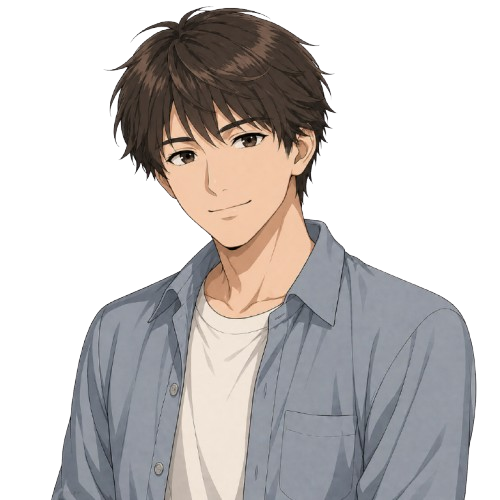
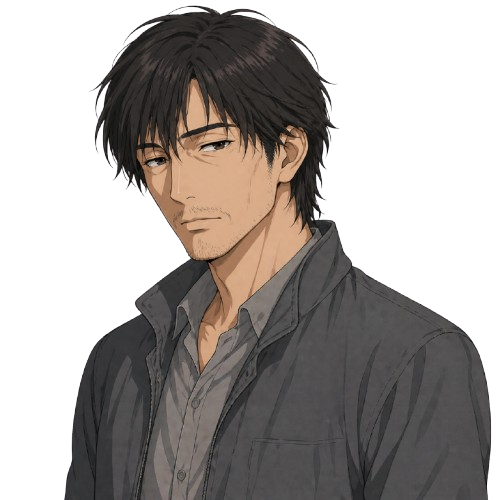
Fix Chapter3 scene backgrounds and add 遺言書 center display
- c3s02: changeBg → inn_exterior
- c3s06: bg → inn_interior
- c3s07: showCenter 遺言書 (stage7) on first line
- c3s09/10: bg → inn_exterior
- c3s16/23: bg → inn_interior
- Push updated chara images (20, 21)

diff --git a/game.js b/game.js
@@ -2718,7 +2718,7 @@ const ADV_SCENES = {
     leftEntrance: 'fade', flipLeft: true,
     rightEntrance:'fade', autoClose: false,
     script: [
-      { hideAll: true, changeBg: 'img/bg/image_merge_bg_road_light.png', autoAdvance: true },
+      { hideAll: true, changeBg: 'img/Chapter3/bg/image_merge_bg_inn_exterior.png', autoAdvance: true },
       { speaker: 'フミコ', text: 'こちらです。「白鷺亭」...主人が四十年かけて建てた旅館なんです。', side: 'right', showRight: true, slideRight: true },
       // 伏線①：どこか含みのある一言
       { speaker: 'ヤス',   text: '...立派な旅館ですね。', side: 'left', showLeft: true, slideLeft: true, flipLeft: true },
@@ -2782,7 +2782,7 @@ const ADV_SCENES = {
     title:        '',
     leftImg:      'img/Chapter1/Chara/image_merge_order_chara_00.png',
     rightImg:     'img/Chapter3/chara/image_merge_order_chara_20.png',
-    bg:           'img/bg/image_merge_bg_light.png',
+    bg:           'img/Chapter3/bg/image_merge_bg_inn_interior.png',
     leftEntrance: 'fade', flipLeft: true,
     rightEntrance:'slide', autoClose: false,
     script: [
@@ -2803,7 +2803,7 @@ const ADV_SCENES = {
     leftEntrance: 'fade', flipLeft: true,
     rightEntrance:'fade', autoClose: false,
     script: [
-      { speaker: 'ヤス',   text: 'こちらが、遺言書の原本ですね。', side: 'left' },
+      { speaker: 'ヤス',   text: 'こちらが、遺言書の原本ですね。', side: 'left', showCenter: 'img/Chapter3/icon/image_merge_icon3_07.png' },
       { speaker: 'フミコ', text: 'はい。ノブオさん...主人の長年の友人で弁護士の方が持ってきてくださいました。', side: 'right' },
       { speaker: 'ヤス',   text: '...日付と、インクの色が。少し、気になります。', side: 'left' },
       { speaker: 'フミコ', text: '？', side: 'right' },
@@ -2833,7 +2833,7 @@ const ADV_SCENES = {
     title:        '',
     leftImg:      'img/Chapter1/Chara/image_merge_order_chara_00.png',
     rightImg:     'img/Chapter3/chara/image_merge_order_chara_21.png',
-    bg:           'img/bg/image_merge_bg_road_light.png',
+    bg:           'img/Chapter3/bg/image_merge_bg_inn_exterior.png',
     leftEntrance: 'fade', flipLeft: true,
     rightEntrance:'slide', autoClose: false,
     script: [
@@ -2850,7 +2850,7 @@ const ADV_SCENES = {
     title:        '',
     leftImg:      'img/Chapter1/Chara/image_merge_order_chara_00.png',
     rightImg:     'img/Chapter3/chara/image_merge_order_chara_16.png',
-    bg:           'img/bg/image_merge_bg_road_light.png',
+    bg:           'img/Chapter3/bg/image_merge_bg_inn_exterior.png',
     leftEntrance: 'fade', flipLeft: true,
     rightEntrance:'fade', autoClose: false,
     script: [
@@ -2947,7 +2947,7 @@ const ADV_SCENES = {
     title:        '',
     leftImg:      'img/Chapter3/chara/image_merge_order_chara_16.png',
     rightImg:     'img/Chapter3/chara/image_merge_order_chara_17.png',
-    bg:           'img/bg/image_merge_bg_light.png',
+    bg:           'img/Chapter3/bg/image_merge_bg_inn_interior.png',
     leftEntrance: 'fade', flipLeft: true,
     rightEntrance:'fade', autoClose: false,
     script: [
@@ -3063,7 +3063,7 @@ const ADV_SCENES = {
     title:        '',
     leftImg:      'img/Chapter3/chara/image_merge_order_chara_16.png',
     rightImg:     'img/Chapter3/chara/image_merge_order_chara_17.png',
-    bg:           'img/bg/image_merge_bg_light.png',
+    bg:           'img/Chapter3/bg/image_merge_bg_inn_interior.png',
     leftEntrance: 'fade', flipLeft: true,
     rightEntrance:'fade', autoClose: false,
     script: [
